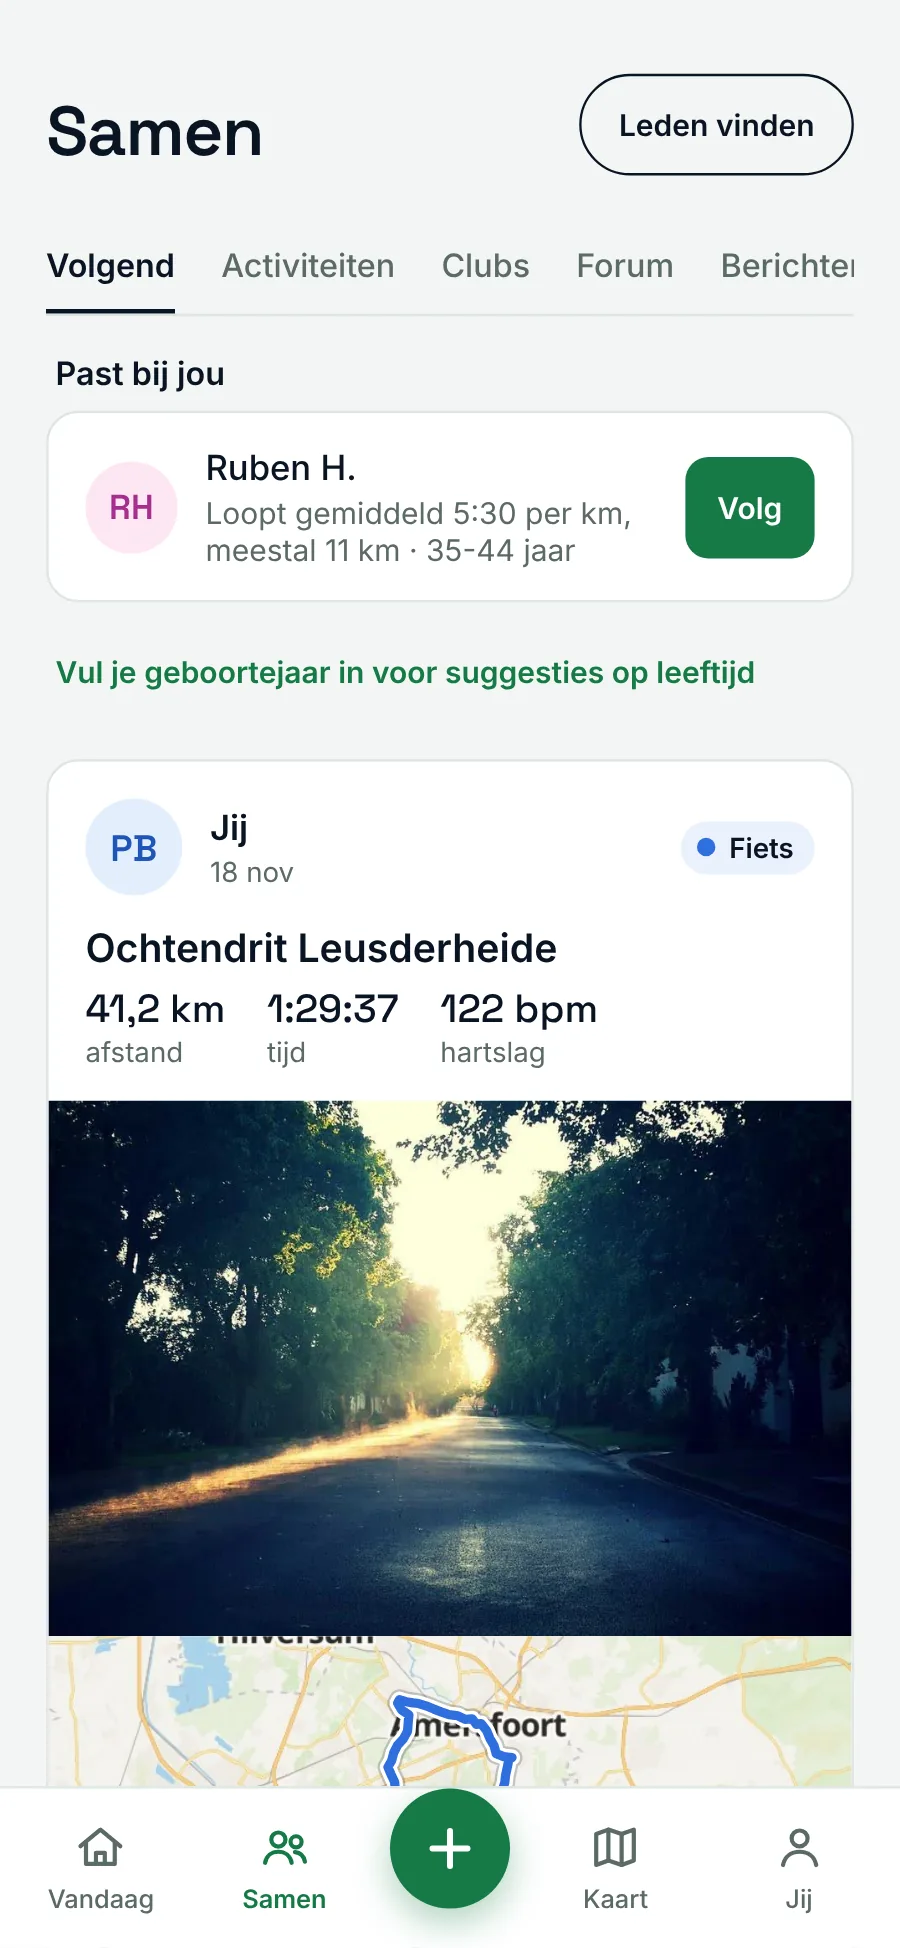
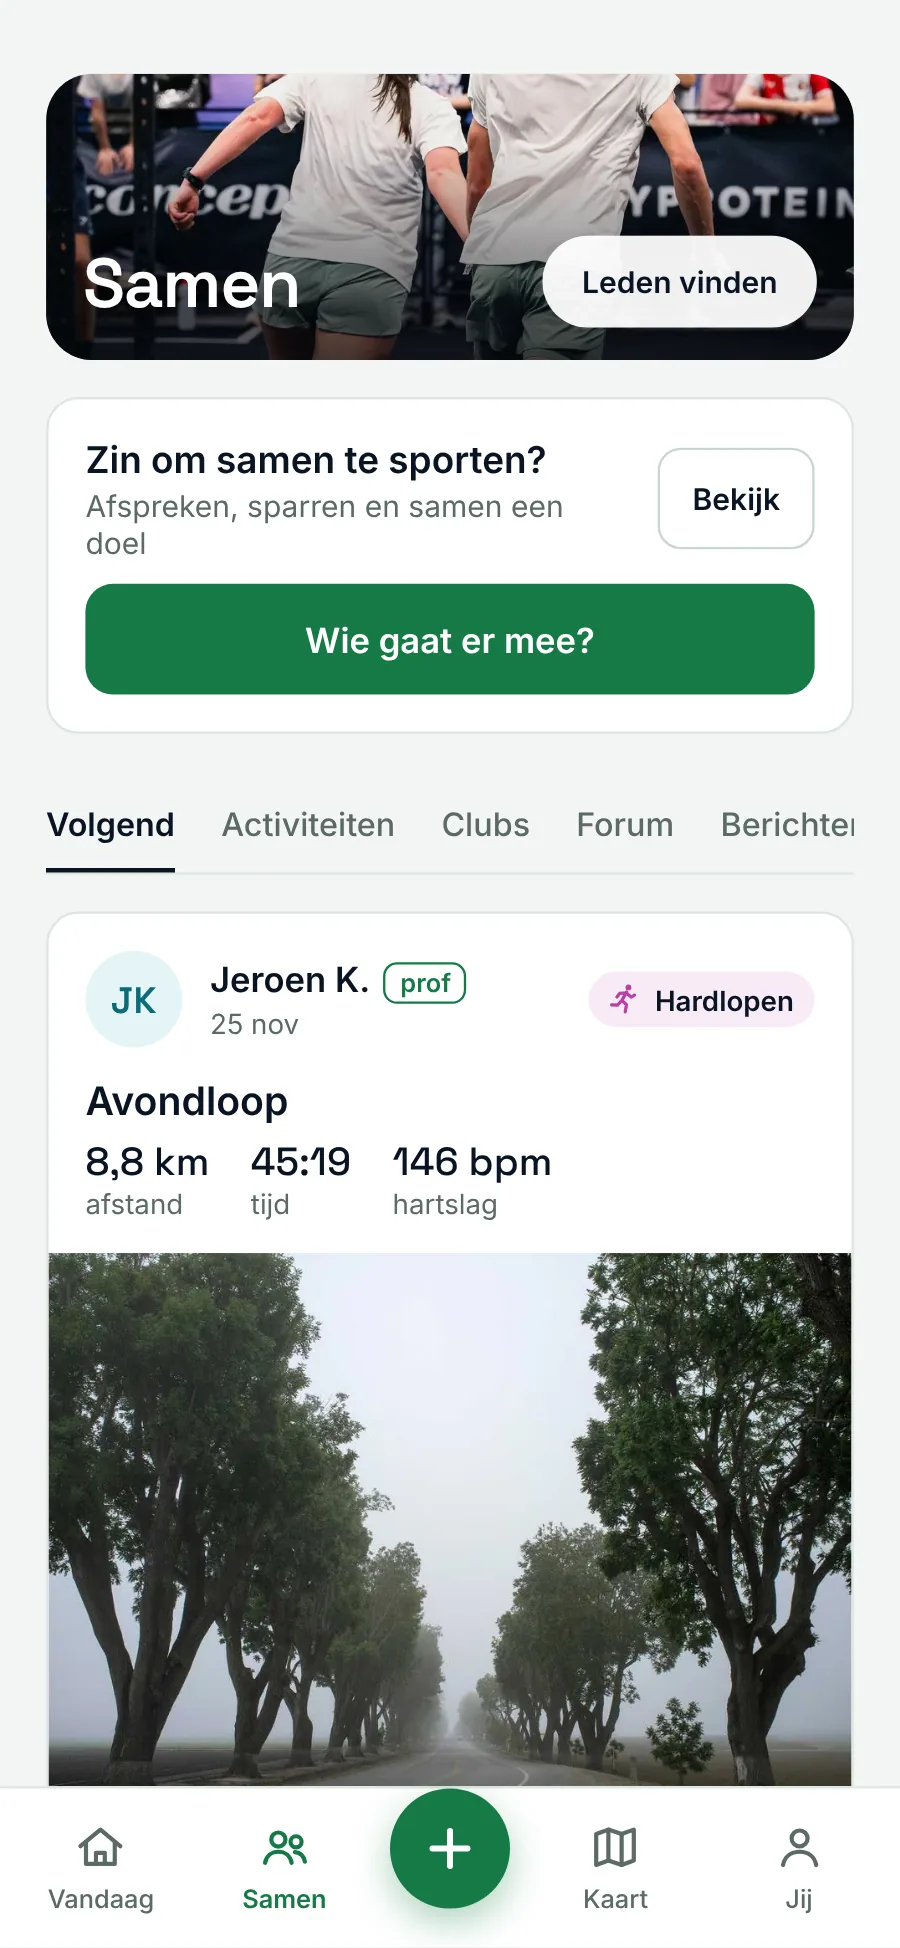
Nieuwe schermen uit de app: status op Vandaag, analyse en inzicht per training, samen sporten
Claude-Session: https://claude.ai/code/session_01BSt8A8hFhtjXRLWmiUvqjT

diff --git a/site.js b/site.js
@@ -11,7 +11,7 @@
   function rpc(fn, body) { return fetch(cfg.supabaseUrl + '/rest/v1/rpc/' + fn, { method: 'POST', headers: { 'Content-Type': 'application/json', apikey: cfg.supabaseAnonKey, Authorization: 'Bearer ' + cfg.supabaseAnonKey }, body: JSON.stringify(body || {}) }).then(function (r) { if (!r.ok) throw new Error(r.status); return r.json(); }); }
   var steps = function (items, label) { return '<div class="three">' + items.map(function (x, i) { return '<div class="step">' + (label ? '<span class="n">' + label + ' ' + (i + 1) + '</span>' : '') + '<h3>' + esc(x[0]) + '</h3><p class="mut">' + esc(x[1]) + '</p></div>'; }).join('') + '</div>'; };
   var head = function (o, tag) { tag = tag || 'h1'; return '<div class="stack"><p class="eyebrow">' + esc(o.eyebrow) + '</p><' + tag + '>' + esc(o.h1 || o.h2) + '</' + tag + '>' + (o.lead ? '<p class="lead">' + esc(o.lead) + '</p>' : '') + '</div>'; };
-  function phone(T) { var m = T.mock; return '<figure class="shots" role="img" aria-label="' + esc(m.alt) + '"><img src="img/app-rit.webp" alt="" width="900" height="1948" loading="eager"><img src="img/app-kracht.webp" alt="" width="900" height="1948" loading="eager" fetchpriority="high"></figure>'; }
+  function phone(T) { var m = T.mock; return '<figure class="shots" role="img" aria-label="' + esc(m.alt) + '"><img src="img/app-analyse.webp" alt="" width="900" height="1948" loading="eager"><img src="img/app-inzicht.webp" alt="" width="900" height="1948" loading="eager" fetchpriority="high"></figure>'; }
   function sportsBand(T) { var g = T.home.sports, im = ['tennis', 'gym', 'fiets', 'loop', 'mtb', 'zwem']; return '<section class="sp"><div class="wrap stack" style="gap:36px"><div class="stack" style="max-width:720px"><p class="eyebrow">' + esc(g.eyebrow) + '</p><h2>' + esc(g.h2) + '</h2><p class="lead">' + esc(g.lead) + '</p></div><div class="mos">' + g.items.map(function (x, i) { return '<figure><img src="img/sport-' + im[i] + '.webp" alt="" width="1200" height="800" loading="lazy"><figcaption>' + esc(x) + '</figcaption></figure>'; }).join('') + '</div></div></section>'; }
   function gallery(T) { var g = T.home.gallery, im = ['app-vandaag', 'app-samen', 'app-training'], sp = [['#B93FA6', 0], ['#2F6FDE', 1], ['#2E8B3A', 2], ['#D9480F', 3]]; return '<section><div class="wrap stack" style="gap:40px"><div class="stack" style="max-width:720px"><p class="eyebrow">' + esc(g.eyebrow) + '</p><h2>' + esc(g.h2) + '</h2><p class="lead">' + esc(g.lead) + '</p><div class="dots">' + sp.map(function (x) { return '<span><i style="background:' + x[0] + '"></i>' + esc(g.sports[x[1]]) + '</span>'; }).join('') + '</div></div><div class="gal">' + g.items.slice(0, 3).map(function (x, i) { return '<figure><img src="img/' + im[i] + '.webp" alt="' + esc(x[0]) + '" width="900" height="1948" loading="lazy"><figcaption><b>' + esc(x[0]) + '</b><span>' + esc(x[1]) + '</span></figcaption></figure>'; }).join('') + '</div><p class="sm mut">' + esc(g.note) + '</p></div></section>'; }
   /* ---------- coach: proefversie zonder account. Schema uit vaste regels, vrije tekst via het taalmodel als dat is aangesloten. ---------- */

diff --git a/content.js b/content.js
@@ -72,7 +72,7 @@ window.SP_CONTENT = {
     "Kaart",
     "Eigenaar"
    ],
-   "alt": "Twee schermen uit de app met voorbeelddata: een fietsrit op de kaart en een krachttraining met oefeningen"
+   "alt": "Twee schermen uit de app met voorbeelddata: de analyse van een fietsrit met grafieken en wat er opvalt aan de training"
   },
   "home": {
    "eyebrow": "Voor iedereen die sport",
@@ -147,11 +147,11 @@ window.SP_CONTENT = {
     "items": [
      [
       "Vandaag",
-      "Je week, het advies van de coach en wat er gepland staat."
+      "Hoe je ervoor staat, je doel van vandaag en je week."
      ],
      [
       "Samen",
-      "Trainingen van leden die je volgt, met foto, kaart en een Split."
+      "Spreek af om samen te sporten en volg de trainingen van leden."
      ],
      [
       "Elke training",
@@ -928,7 +928,7 @@ window.SP_CONTENT = {
     "Map",
     "Owner"
    ],
-   "alt": "Two screens from the app with sample data: a ride on the map and a strength session with exercises"
+   "alt": "Two screens from the app with sample data: the analysis of a ride with charts and what stands out in the session"
   },
   "home": {
    "eyebrow": "For everyone who plays sport",
@@ -1003,11 +1003,11 @@ window.SP_CONTENT = {
     "items": [
      [
       "Today",
-      "Your week, the coach’s advice and what is planned."
+      "How you are doing, your goal for today and your week."
      ],
      [
       "Together",
-      "Sessions from members you follow, with photo, map and a Split."
+      "Plan a session together and follow what other members do."
      ],
      [
       "Every session",
@@ -1784,7 +1784,7 @@ window.SP_CONTENT = {
     "Karte",
     "Eigentum"
    ],
-   "alt": "Zwei Bildschirme der App mit Beispieldaten: eine Radtour auf der Karte und ein Krafttraining mit Übungen"
+   "alt": "Zwei Bildschirme der App mit Beispieldaten: die Analyse einer Radtour mit Grafiken und was am Training auffällt"
   },
   "home": {
    "eyebrow": "Für alle, die Sport treiben",
@@ -1859,11 +1859,11 @@ window.SP_CONTENT = {
     "items": [
      [
       "Heute",
-      "Deine Woche, der Rat des Coachs und was geplant ist."
+      "Wie es um dich steht, dein Ziel für heute und deine Woche."
      ],
      [
       "Gemeinsam",
-      "Trainings von Mitgliedern, denen du folgst, mit Foto, Karte und einem Split."
+      "Verabrede dich zum Sport und folge den Trainings anderer Mitglieder."
      ],
      [
       "Jedes Training",
